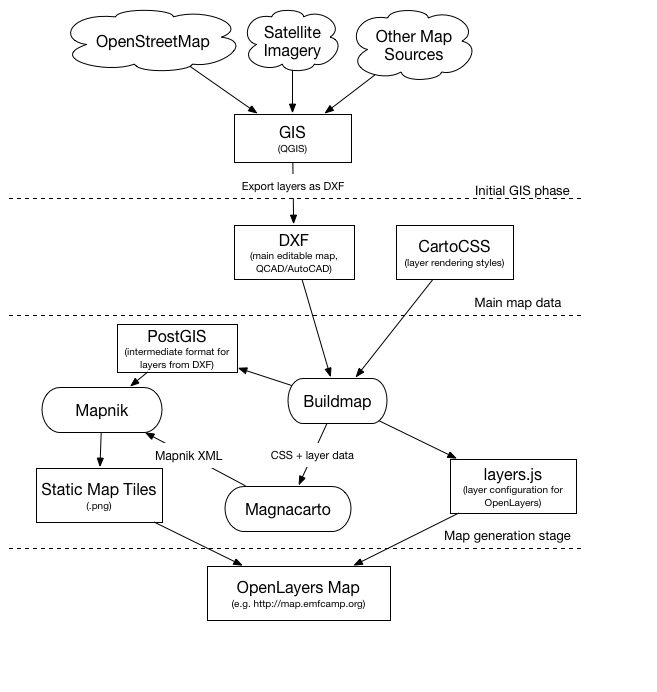
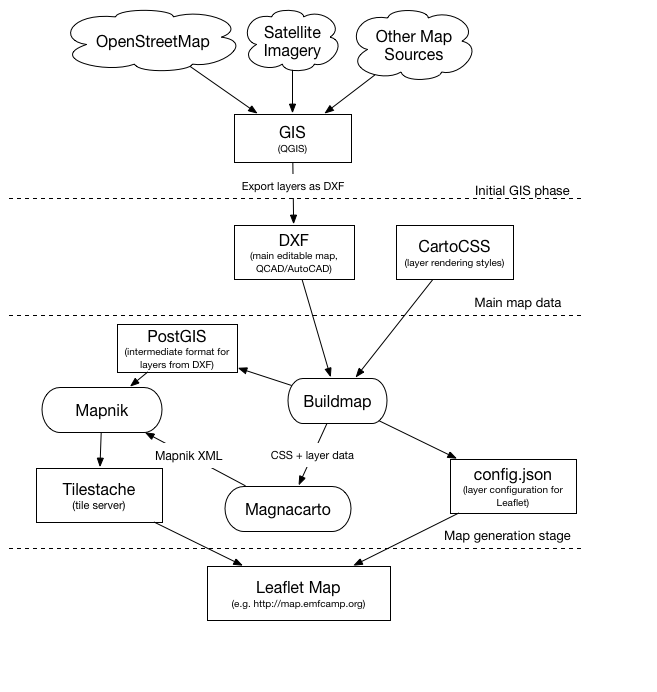
Switch to using TileStache for on-demand rendering.

Changed region(s): [[0.3653, 0.8194, 0.5479, 0.8801], [0.0609, 0.698, 0.2435, 0.7587], [0.7306, 0.6676, 0.8524, 0.7587]]

diff --git a/buildmap.py b/buildmap.py
@@ -1,7 +1,6 @@
 # coding=utf-8
 from __future__ import division, absolute_import, print_function, unicode_literals
 
-import datetime
 import json
 import logging
 import os
@@ -12,11 +11,10 @@ from collections import defaultdict
 from os import path
 
 import sqlalchemy
-from jinja2 import Environment, PackageLoader
 from sqlalchemy.sql import text
 
 import config
-from util import sanitise_layer, runCommands, write_file
+from util import sanitise_layer
 
 
 class BuildMap(object):
@@ -25,7 +23,7 @@ class BuildMap(object):
         self.config = config
         self.db_url = sqlalchemy.engine.url.make_url(self.config.db_url)
         self.base_path = os.path.dirname(os.path.abspath(__file__))
-        self.temp_dir = os.path.join(self.base_path, 'temp')
+        self.temp_dir = os.path.join(self.base_path, 'output')
         engine = sqlalchemy.create_engine(self.db_url)
         self.db = engine.connect()
         shutil.rmtree(self.temp_dir, True)
@@ -142,7 +140,7 @@ class BuildMap(object):
 
         mml = {'Layer': layers,
                'Stylesheet': [path.basename(mss_file)],
-               'srs': '+init=epsg:%s' % self.config.dest_projection,
+               'srs': '+init=epsg:3857',
                'name': path.basename(mss_file)
                }
 
@@ -166,30 +164,60 @@ class BuildMap(object):
 
         return output_file
 
-    def generate_tilecache_cfg(self, dest_layers, temp_tiles_dir):
-        tilecache_config = os.path.join(self.temp_dir, 'tilecache.cfg')
-        env = Environment(loader=PackageLoader('buildmap', 'templates'))
-        template = env.get_template('tilecache.jinja')
-        write_file(tilecache_config,
-                   template.render(layers=dest_layers,
-                                   config=config, cache_directory=temp_tiles_dir))
-        return tilecache_config
-
-    def generate_layers_js(self, layer_names):
+    def generate_layers_config(self, layer_names):
         # keep the base layer at the bottom of the stack
         layer_names.insert(0, layer_names.pop(layer_names.index('base')))
 
-        env = Environment(loader=PackageLoader('buildmap', 'templates'))
-        template = env.get_template('layers-js.jinja')
-        write_file(os.path.join(self.config.output_directory, 'layers.js'),
-                   template.render(layers=layer_names, config=config))
+        result = {'base_url': self.config.urls[0],
+                  'extents': self.config.extents,
+                  'zoom_range': self.config.zoom_range,
+                  'layers': layer_names}
+
+        with open(os.path.join(self.config.output_directory, 'config.json'), 'w') as fp:
+            json.dump(result, fp)
+
+    def generate_tilestache_config(self, dest_layers):
+        tilestache_config = {
+            "cache": {
+                "name": "Disk",
+                "path": config.tilestache_cache_dir
+            },
+            "layers": {},
+        }
+
+        for layer_name, xml_file in dest_layers.items():
+            tilestache_config['layers'][layer_name] = {
+                "provider": {
+                    "name": "mapnik",
+                    "mapfile": xml_file,
+                },
+                "metatile": {
+                    "rows": 4,
+                    "columns": 4,
+                    "buffer": 64
+                },
+                "bounds": {
+                    "low": self.config.zoom_range[0],
+                    "high": self.config.zoom_range[1],
+                    "north": self.config.extents[0],
+                    "east": self.config.extents[1],
+                    "south": self.config.extents[2],
+                    "west": self.config.extents[3]
+                },
+                "preview": {
+                    "lat": 51.22,
+                    "lon": -0.59,
+                    "zoom": 15,
+                    "ext": "png"
+                }
+            }
+
+        with open(path.join(self.temp_dir, "tilestache.json"), "w") as fp:
+            json.dump(tilestache_config, fp)
 
     def build_map(self):
         start_time = time.time()
         self.log.info("Generating map...")
-        tilesDir = self.config.output_directory + "/tiles"
-        tempTilesDir = tilesDir + "-" + datetime.datetime.now().strftime("%Y%m%d%H%M%S")
-        oldTilesDir = tilesDir + "-old"
 
         #  Import each source DXF file into PostGIS
         for table_name, dxf in self.config.source_files.iteritems():
@@ -217,26 +245,8 @@ class BuildMap(object):
         for layer_name, mml_file in mml_files:
             dest_layers[layer_name] = self.generate_mapnik_xml(layer_name, mml_file)
 
-        #  Generate tilecache configuration
-        self.log.info("Generating 'tilecache.cfg'...")
-        tilecache_config = self.generate_tilecache_cfg(dest_layers, tempTilesDir)
-
-        #  Execute tilecache on all layers
-        commands = []
-        for layer in dest_layers.keys():
-            commands.append("%s -c %s '%s' %s" % (config.tilecache_seed_binary, tilecache_config,
-                                                  layer, len(config.resolutions)))
-        self.log.info("Generating tiles...")
-        runCommands(commands)
-
-        self.log.info("Moving new tiles into place...")
-        shutil.rmtree(oldTilesDir, True)
-        if os.path.exists(tilesDir):
-            shutil.move(tilesDir, oldTilesDir)
-        shutil.move(tempTilesDir, tilesDir)
-
-        self.log.info("Writing 'layers.js'...")
-        self.generate_layers_js(dest_layers.keys())
+        self.generate_tilestache_config(dest_layers)
+        self.generate_layers_config(dest_layers.keys())
 
         for plugin in self.config.plugins:
             self.log.info("Running plugin %s...", plugin.__name__)

diff --git a/webhook-server.py b/webhook-server.py
@@ -22,6 +22,8 @@ def regenerate_worker():
         subprocess.check_call(['git', 'pull'])
     os.chdir(script_location)
     subprocess.check_call(['python', './buildmap.py'])
+    subprocess.check_call(['rm', '-Rf', '/tmp/stache/*'])
+    subprocess.check_call(['sudo', 'sv', 'restart', 'tilestache'])
 
 
 @hooks.hook('ping')
